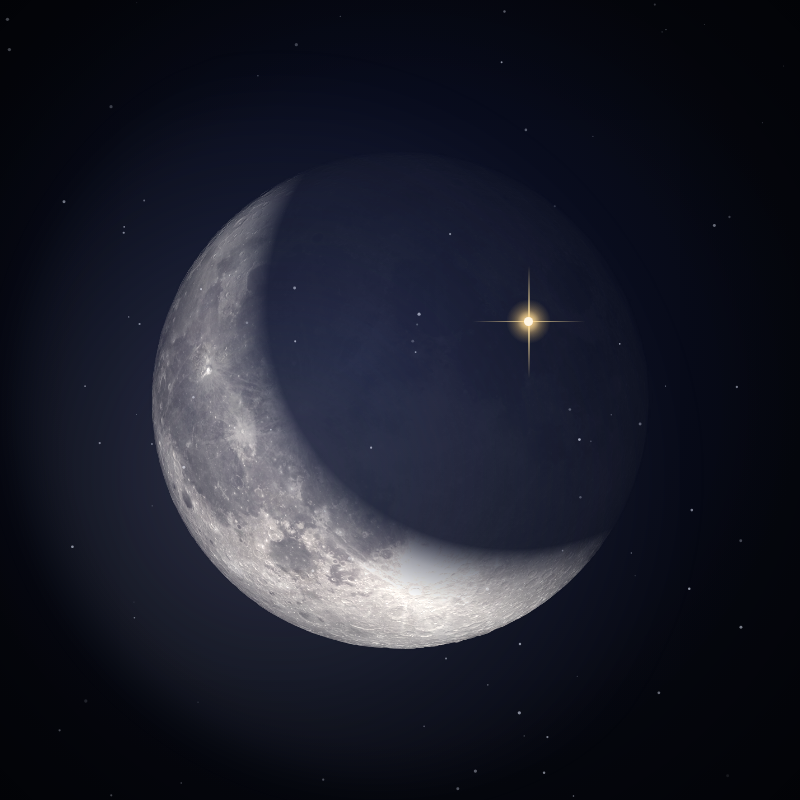
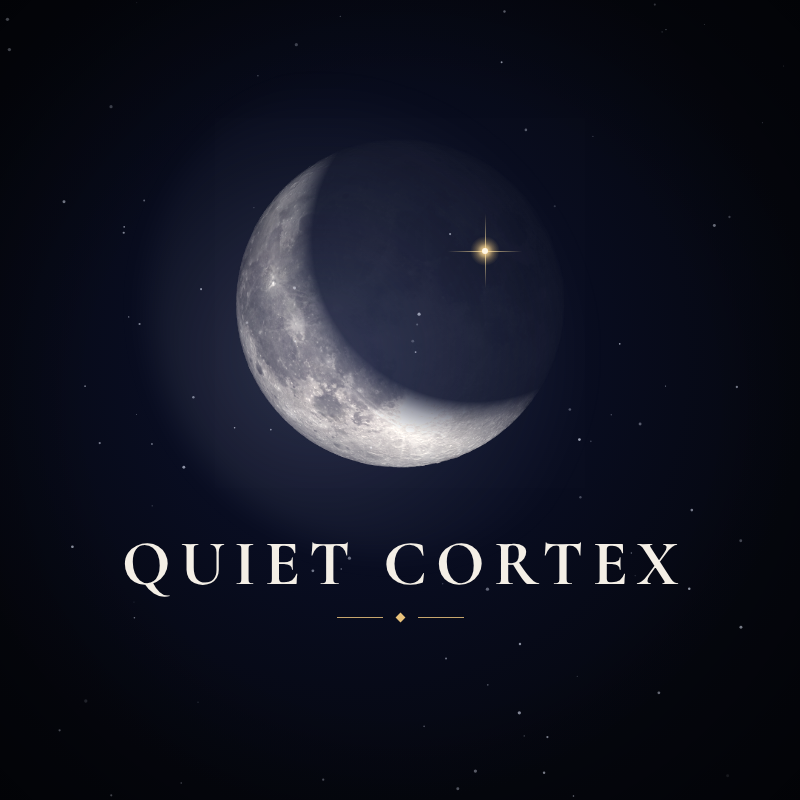
Mente: foto de perfil con el nombre QUIET CORTEX dentro del círculo
Claude-Session: https://claude.ai/code/session_017xiKzNjSLjbPEEzWa2KRbd

diff --git a/src/mente/marca/LogoLuna.tsx b/src/mente/marca/LogoLuna.tsx
@@ -83,12 +83,20 @@ export const Nombre: React.FC<{escala?: number; alinear?: 'center' | 'left'}> = 
   </div>
 );
 
-/** Foto de perfil (800×800; YouTube la recorta en círculo). */
+/** Foto de perfil (800×800; YouTube la recorta en círculo): luna + nombre dentro de la zona circular. */
 export const AvatarLuna: React.FC = () => (
   <AbsoluteFill>
     <Cielo w={800} h={800} n={90} />
-    <AbsoluteFill style={{justifyContent: 'center', alignItems: 'center'}}>
-      <LunaReal s={560} />
+    <AbsoluteFill style={{alignItems: 'center'}}>
+      <div style={{marginTop: 118}}>
+        <LunaReal s={370} />
+      </div>
+      <div style={{fontFamily: SERIF, fontWeight: 700, fontSize: 64, letterSpacing: 9, marginRight: -9, color: C.luz, lineHeight: 1, marginTop: 44}}>QUIET CORTEX</div>
+      <div style={{display: 'flex', alignItems: 'center', gap: 14, marginTop: 18}}>
+        <div style={{width: 46, height: 1.5, background: C.oro, opacity: 0.85}} />
+        <div style={{width: 7, height: 7, transform: 'rotate(45deg)', background: C.oro}} />
+        <div style={{width: 46, height: 1.5, background: C.oro, opacity: 0.85}} />
+      </div>
     </AbsoluteFill>
   </AbsoluteFill>
 );
